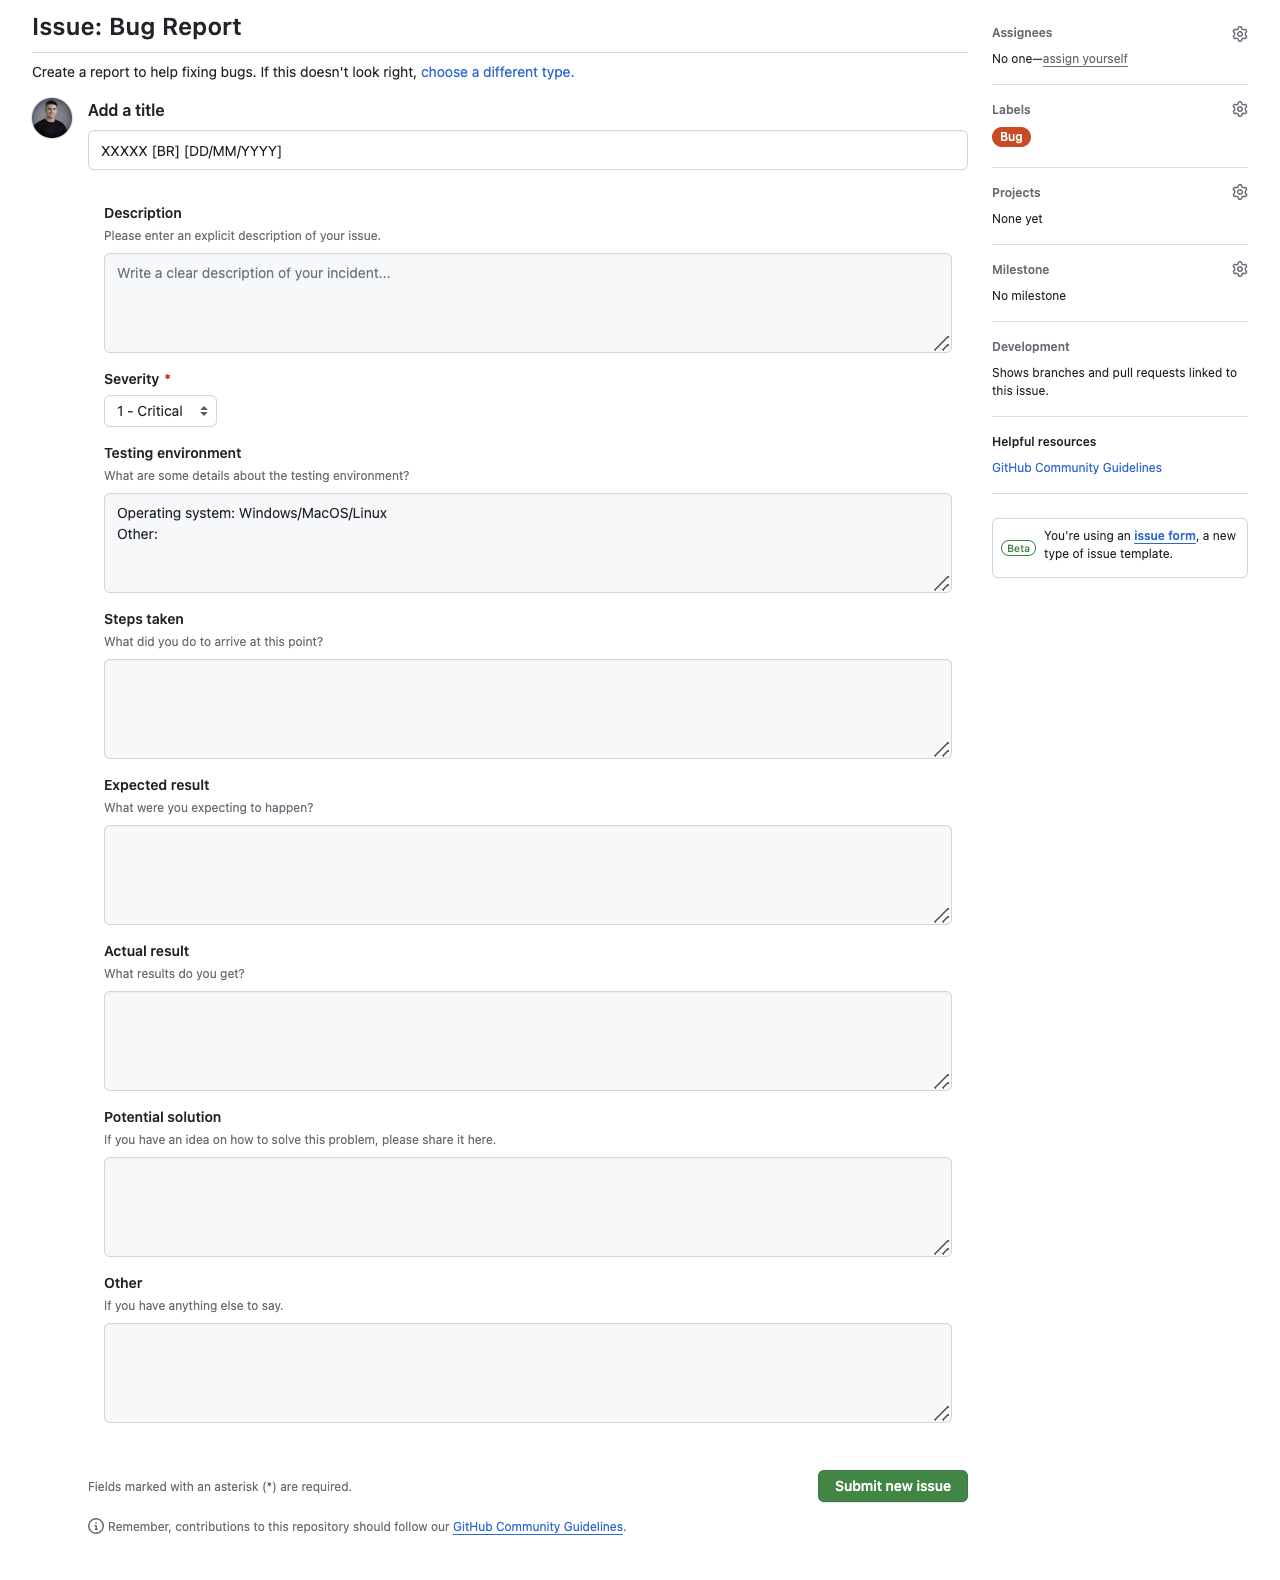
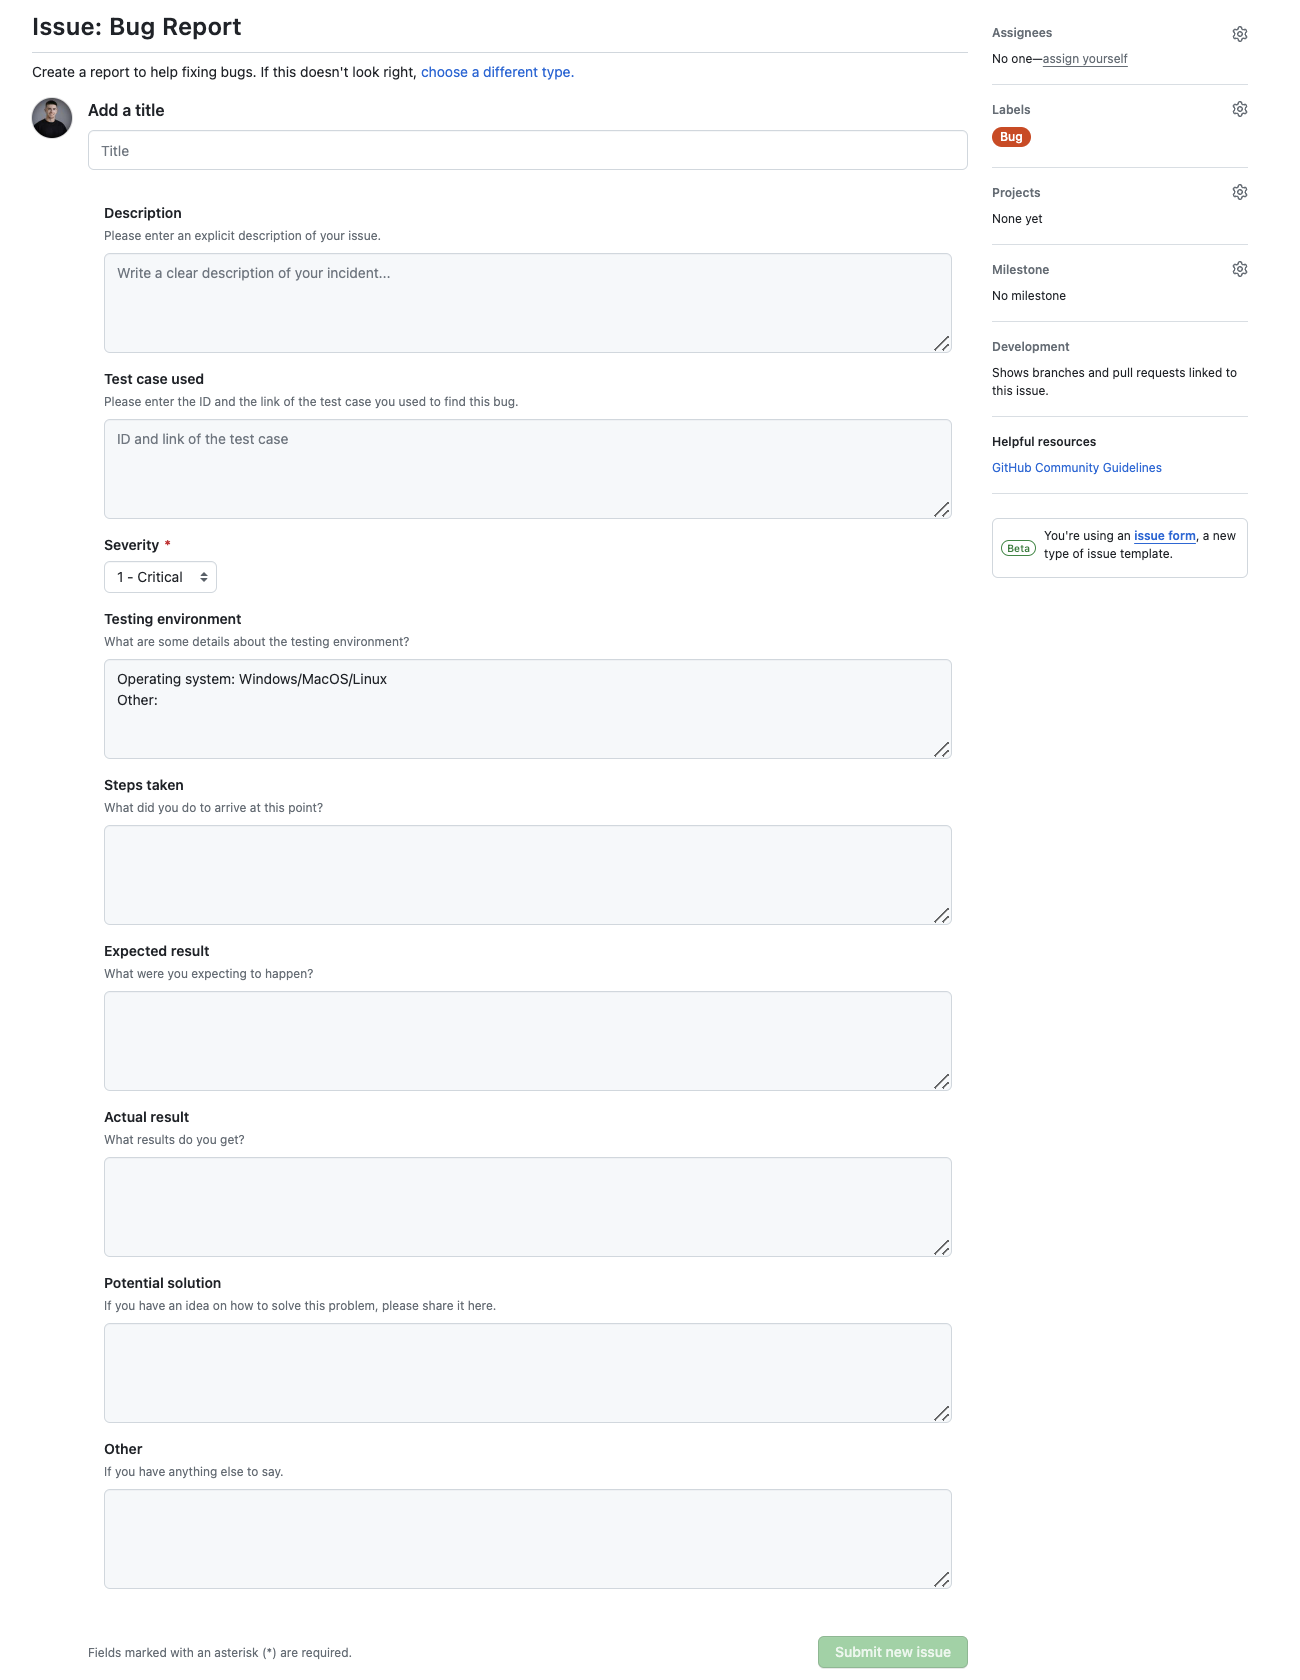
Update test plan

diff --git a/documents/qualityAssurance/testPlan.md b/documents/qualityAssurance/testPlan.md
@@ -23,14 +23,13 @@
   - [Test Plan approval](#test-plan-approval)
   - [Table of Contents](#table-of-contents)
   - [1. Glossary](#1-glossary)
-  - [2. Overview](#2-overview)
-    - [a. Target audience](#a-target-audience)
+  - [2. Introduction](#2-introduction)
+    - [a. Overview](#a-overview)
+    - [b. Targetted audience](#b-targetted-audience)
       - [Former players](#former-players)
       - [New players](#new-players)
       - [Competitive players](#competitive-players)
-    - [b. What is it used for?](#b-what-is-it-used-for)
-    - [c. How will it work?](#c-how-will-it-work)
-    - [d. What are the softwares/hardwares the game uses?](#d-what-are-the-softwareshardwares-the-game-uses)
+    - [c. What are the softwares/hardwares the game uses?](#c-what-are-the-softwareshardwares-the-game-uses)
       - [Assembly](#assembly)
       - [DOSBox](#dosbox)
       - [DOS](#dos)
@@ -79,9 +78,14 @@
 |x86|The x86 architecture is a family of instruction set architectures initially developed by Intel based on the Intel 8086 microprocessor and its 8088 variant. The 8086 was introduced in 1978 as a fully 16-bit extension of Intel's 8-bit 8080 microprocessor, with memory segmentation as a solution for addressing more memory than can be covered by a plain 16-bit address. The term "x86" came into being because the names of several successors to Intel's 8086 processor end in "86", including the 80186, 80286, 80386 and 80486 processors.|[Wikipedia](https://en.wikipedia.org/wiki/X86)|
 |SBC|A single-board computer (SBC) is a complete computer built on a single circuit board, with microprocessor(s), memory, input/output (I/O) and other features required of a functional computer. Single-board computers were made as demonstration or development systems, for educational systems, or for use as embedded computer controllers. Many types of home computers or portable computers integrate all their functions onto a single printed circuit board.|[Wikipedia](https://en.wikipedia.org/wiki/Single-board_computer)|
 
-## 2. Overview
+## 2. Introduction
 
-### a. Target audience
+### a. Overview
+
+Our team was tasked with creating a Pac-Man clone, with the added restriction that it had to be coded in assembly and run on an x86 CPU architecture 16-bit system. \
+The Pac-Man clone game will serve as a delightful escape into the past, offering a virtual time machine to the golden era of arcade gaming. It's a source of entertainment and nostalgia, allowing players to immerse themselves in the simple yet addictive gameplay that made Pac-Man a timeless classic. Additionally, it can be a great way to introduce younger generations to the joy of retro gaming, fostering a sense of appreciation for the roots of the gaming industry. Overall, it's a fun and engaging experience that transcends generations.
+
+### b. Targetted audience
 
 As testers, we will have to put ourselves in the shoes of the users. For this reason, we will have to determine all the possible different user types. By doing that, we will be able to test the product from different perspectives and make sure that it is suitable for all types of users.
 
@@ -97,17 +101,7 @@ The second targetted audience Pac-Man was really popular during the 80's and the
 
 Competitive Pac-Man players are a tiny part of the target audience, but they do exist. These players will be aiming to beat their records, whether in terms of speed, score. But also to achieve the various challenges that are popular in this community.
 
-### b. What is it used for?
-
-The Pac-Man game serves as a delightful escape into the past, offering a virtual time machine to the golden era of arcade gaming. It's a source of entertainment and nostalgia, allowing players to immerse themselves in the simple yet addictive gameplay that made Pac-Man a timeless classic. Additionally, it can be a great way to introduce younger generations to the joy of retro gaming, fostering a sense of appreciation for the roots of the gaming industry. Overall, it's a fun and engaging experience that transcends generations.
-
-### c. How will it work?
-
-Given that this is an exact clone of the 1980 Pac-Man, the gameplay mechanics will faithfully replicate the original experience. Players will navigate through a maze, controlling the iconic yellow character to consume pellets while avoiding colourful ghosts. The controls will mimic the simplicity of the arcade joystick, ensuring an authentic feel for players. Here's a [link](https://www.nintendo.co.jp/clv/manuals/en/pdf/CLV-P-NABME.pdf) to the official instruction manual we'll be referring to.
-
-The graphics and audio will stay true to the retro charm, maintaining the pixelated aesthetic and classic sound effects that defined the original Pac-Man. The game will be designed to run smoothly on modern platforms while preserving the nostalgic elements that make Pac-Man a timeless favourite.
-
-### d. What are the softwares/hardwares the game uses?
+### c. What are the softwares/hardwares the game uses?
 
 The development of this Pac-Man clone involves a combination of software and hardware elements.
 
@@ -135,7 +129,7 @@ As we want our final product to be an arcade game, we're going to build our own 
 
 ### a. Quality assurance team
 
-The testing team will be divided into 2 parts. The first half will be composed of team 3's QA's:
+The testing team will be divided into two parts. The first half will be composed of team 3's QA's:
 
 - Robin DEBRY (Mac OS)
 - Quentin CLÉMENT (Mac OS)
@@ -145,11 +139,11 @@ The second half will be composed of team 4's QA's:
 - Thomas PLANCHARD (Mac OS)
 - Maxime CARON (Windows)
 
-Sparing the testing team in 2 parts will allow us to test the game on 2 different OS (Windows and MAC) to be sure that the game works in each of them. As Thomas and Maxime are not part of our team and of the development of the project, their point of view will be completely different from ours and will allow us to have a more objective point of view on the quality of our product.
+Sparing the testing team in two parts will allow us to test the game on two different OS (Windows and MAC) to be sure that the game works in each of them. As Thomas and Maxime are not part of our team and of the development of the project, their point of view will be completely different from ours and will allow us to have a more objective point of view on the quality of our product.
 
 ### b. Testing scope
 
-The 2 main things to test during this project will be the documents and the game itself. 
+The two main things to test during this project will be the documents and the game itself. 
 \
 About the documents, it's paramount to ensure their quality, so that communication with the client is clear and the whole team can work on the same basis. Not only will we check the documents for grammatical and typographical errors, but also the content itself, to ensure that no crucial points have been overlooked or erroneous elements introduced into the document.
 
@@ -168,7 +162,7 @@ We'll also be doing game-testing sessions in collaboration with Team 4's QA team
 On the other hand, we'll also be testing their game. We'll provide feedback to help them improve their game and find bugs they may not have noticed. It will also be interesting to see the things they could have done that we didn't think of.
 
 The aim is to get two different and original end products, but of equal quality. \
-They will open an issue and report the bugs they found on the game or the things they think could be improved. This issue will be named "Xth QA meeting with team 4 [dd/mm/yyyy]
+Team 4's QAs will use their own test cases to test our game. They will then open an issue and report the bugs they found on the game or the things they think could be improved. This issue will be named "Xth QA meeting with team 4"
 
 ### d. Define priorities
 
@@ -192,12 +186,12 @@ The final objective of this project is to run the game with DOS on a real x86 CP
 
 #### GitHub
 
-As the project is hosted on GitHub, we will use the Issues feature to create tickets for test cases and bug reports. Thanks to that, when people look at our project, they will be able to see what has to be implemented and if they are bugs, what are they.
+As the project is hosted on GitHub, we will use the Issues feature to create tickets for test cases and bug reports. Thanks to that, when people look at our project, they will be able to see what has to be implemented and if they are bugs, what are they?
 
 ### f. Test cases
 
 To be sure that all features and all possible bugs have been tested, test cases will be created via tickets on GitHub Issues. We will use this tool so that it is easy for QA's to see what has to be tested and what has already been tested. But also for the whole team to be aware of features that are not working yet or that haven't been implemented yet. That's why we've chosen to create tickets rather than a spreadsheet. <br>
-A mention [TC] will be added to the title of each test case to make it easier to identify between all the issues. The creation date of the test case will also be added to the title. <br>
+The title must be clear and explicit so that everyone can understand what has to be tested. <br>
 Each test case will be created on GitHub issues with the label "Test Case". <br>
 The QA's and the people in charge of the feature will be set as assignees. <br>
 A template for those tickets has been created and is stored in [testCase.yml](../../.github/ISSUE_TEMPLATE/testCase.yml). <br>
@@ -213,7 +207,7 @@ About the steps to reproduce, "launch the game" means launch DOSBox, run the exe
 When a bug is found, a bug report will be created.
 They will also be created via tickets on GitHub Issues so that it is easy for the development team to see when a bug has been found. <br>
 When an update has been made to fix a bug, the QA will be notified via a comment on the ticket by the person who tried to resolve it. <br>
-A mention [BR] will be added to the title of each bug report to make it easier to identify between all the issues. The date on which the bug was last reported will also be added to the title. <br>
+The title must be clear and explicit so that everyone can understand what the bug is. <br>
 Each bug report will be created on GitHub issues with the label "Bug". <br>
 The people in charge of resolving the bug will be set as assignees. <br>
 A template for those tickets has been created and is stored in [bugReport.yml](../../.github/ISSUE_TEMPLATE/bugReport.yml). <br>
